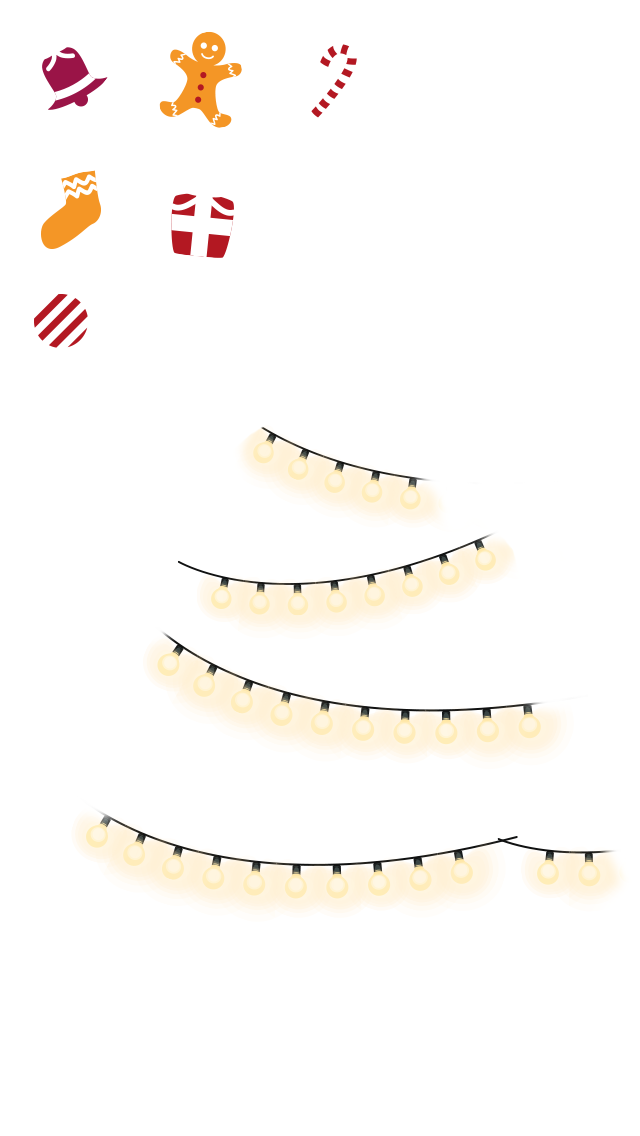
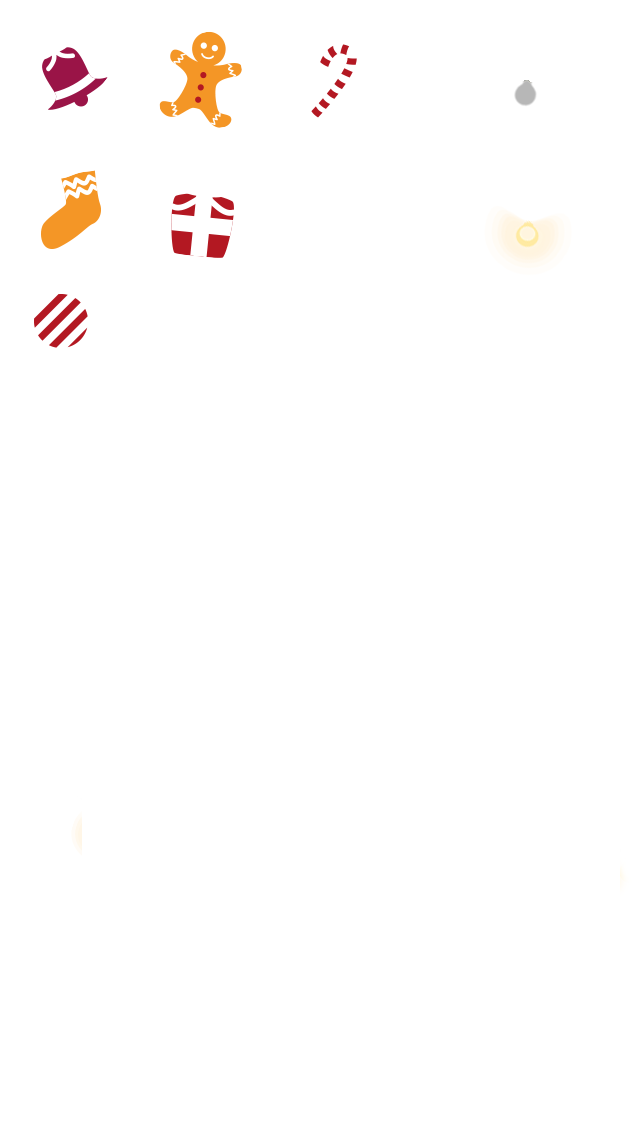
d

diff --git a/chirstmas/css/style.css b/chirstmas/css/style.css
@@ -370,7 +370,7 @@ body {
     top: 375px;
 }
 .page3.current .bd .icon.clickBtn{
-	background-position:-241px -68px; 
+	background-position:-241px -141px; 
 	width: 48px;
 	height: 89px;
 	left: 58px;
@@ -385,8 +385,9 @@ body {
 	top: 470px;
 }
 .page3.current .bd .lamp{
-	background-image:  url(../images/christmas/lamp3-1.png);
-	background-size:54px 44px;
+	background-image:  url(../images/christmas/icon3.png);
+	background-size: 320px 568px;
+	background-position: -236px -26px;
 	width: 54px;
 	height: 44px;
 	position: absolute;
@@ -395,7 +396,7 @@ body {
 	z-index: 5;
 }
 .page3.current .bd .lamp.on{
-	background-image:  url(../images/christmas/lamp3-3.png);
+	background-position: -236px -95px;
 	z-index: 6;
 }
 .page3.current .bd .lamp.lamp2{

diff --git a/chirstmas/rule.html b/chirstmas/rule.html
@@ -1,0 +1,21 @@
+<!DOCTYPE html> 
+<html lang="zh-CN">
+<head>
+<meta http-equiv="Content-Type" content="text/html; charset=UTF-8">
+<title>test</title>
+<style type="text/css">
+*{margin: 0;padding:0;}
+.one{width: 100px;height: 100px;background-color: #ccc;}
+</style>
+</head>
+<body>
+<div class="one">
+</div>
+</body>
+<script type="text/javascript" src="js/zepto.min.js"></script>
+<script type="text/javascript">
+$(function(){
+	$(".one").animate({width:300},800);
+})
+</script>
+</html>
